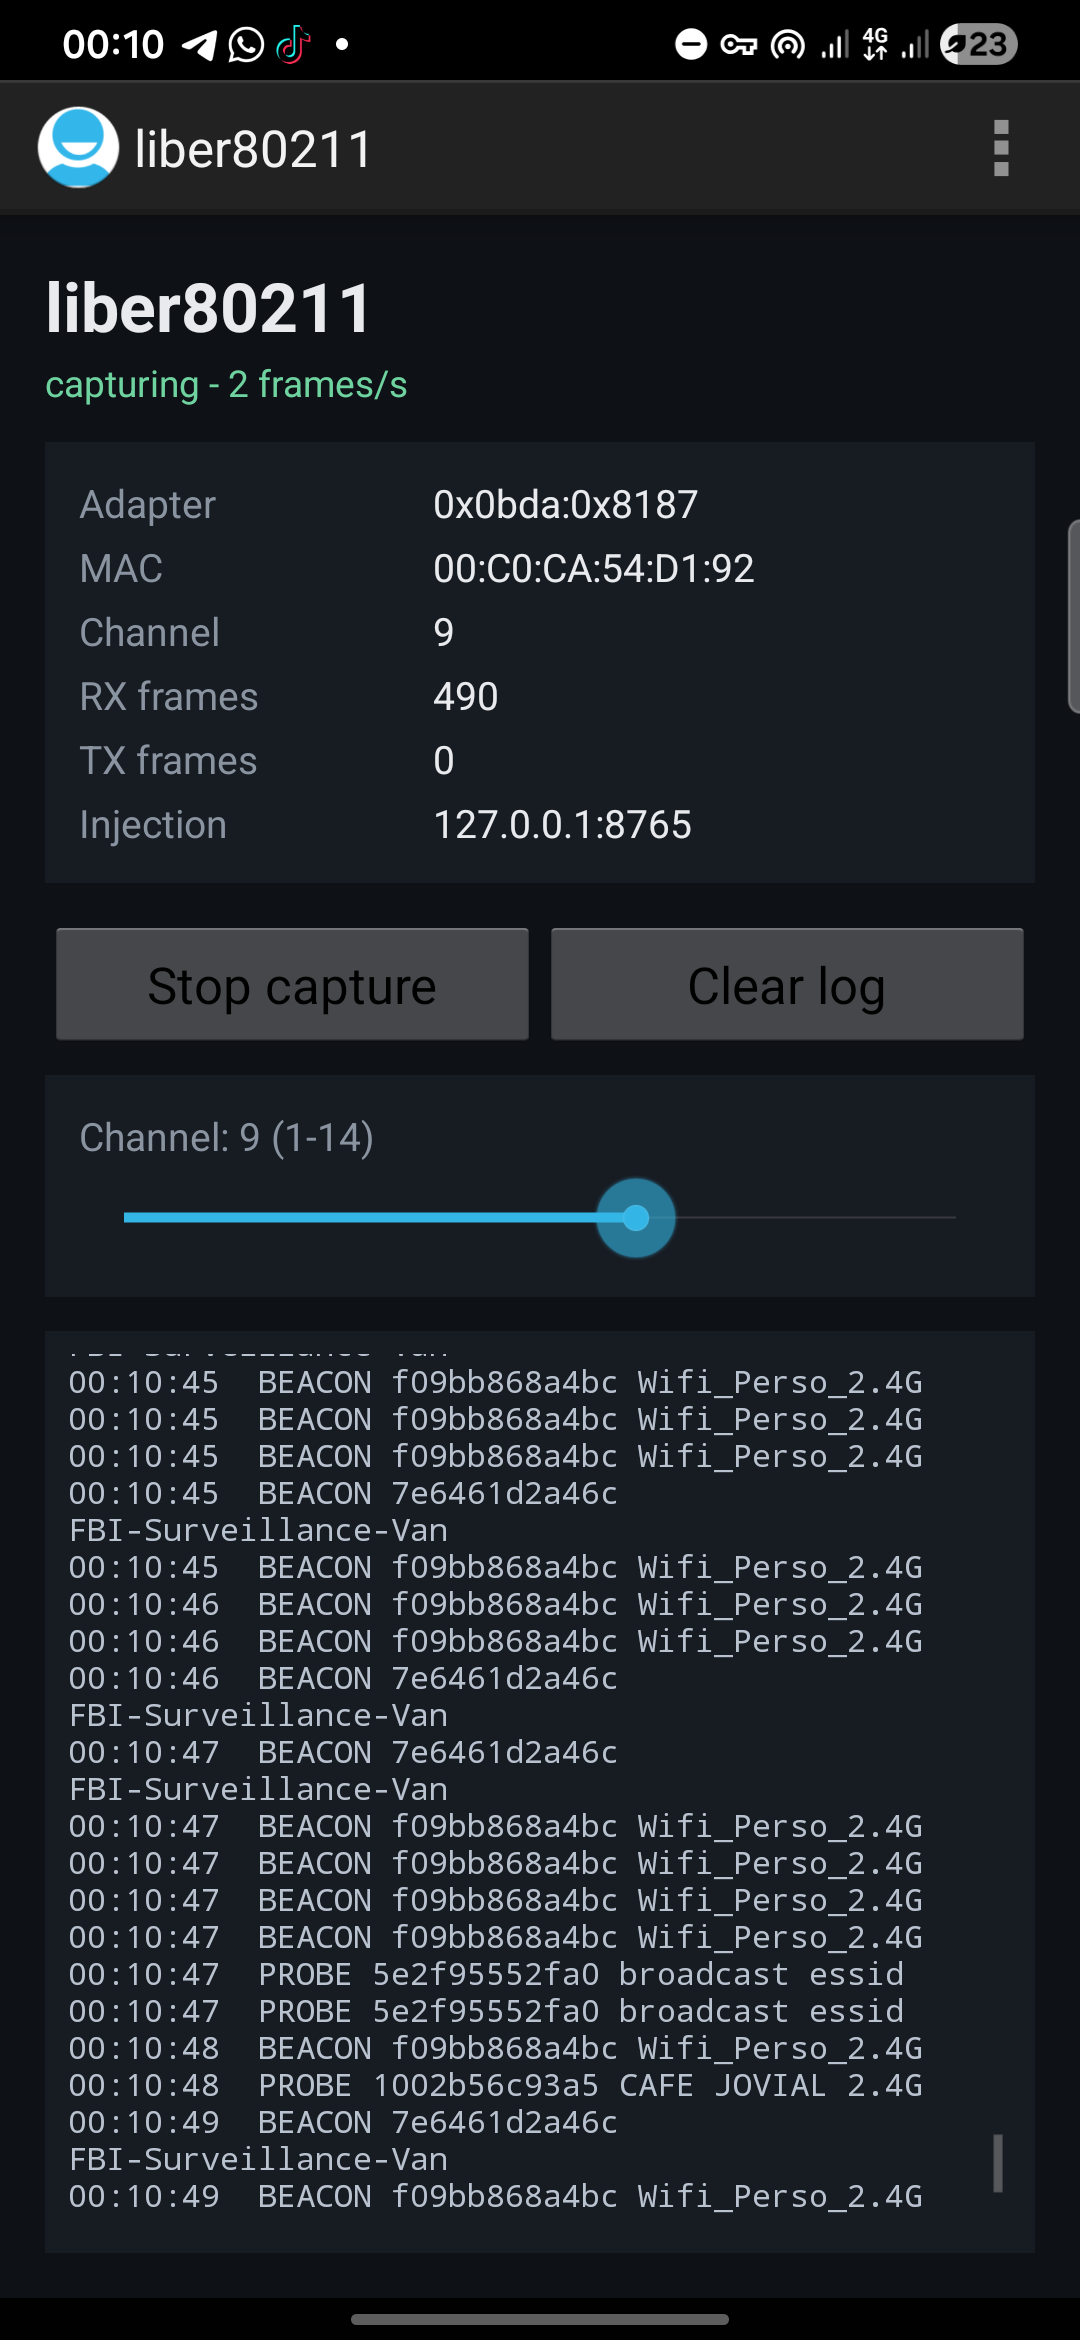
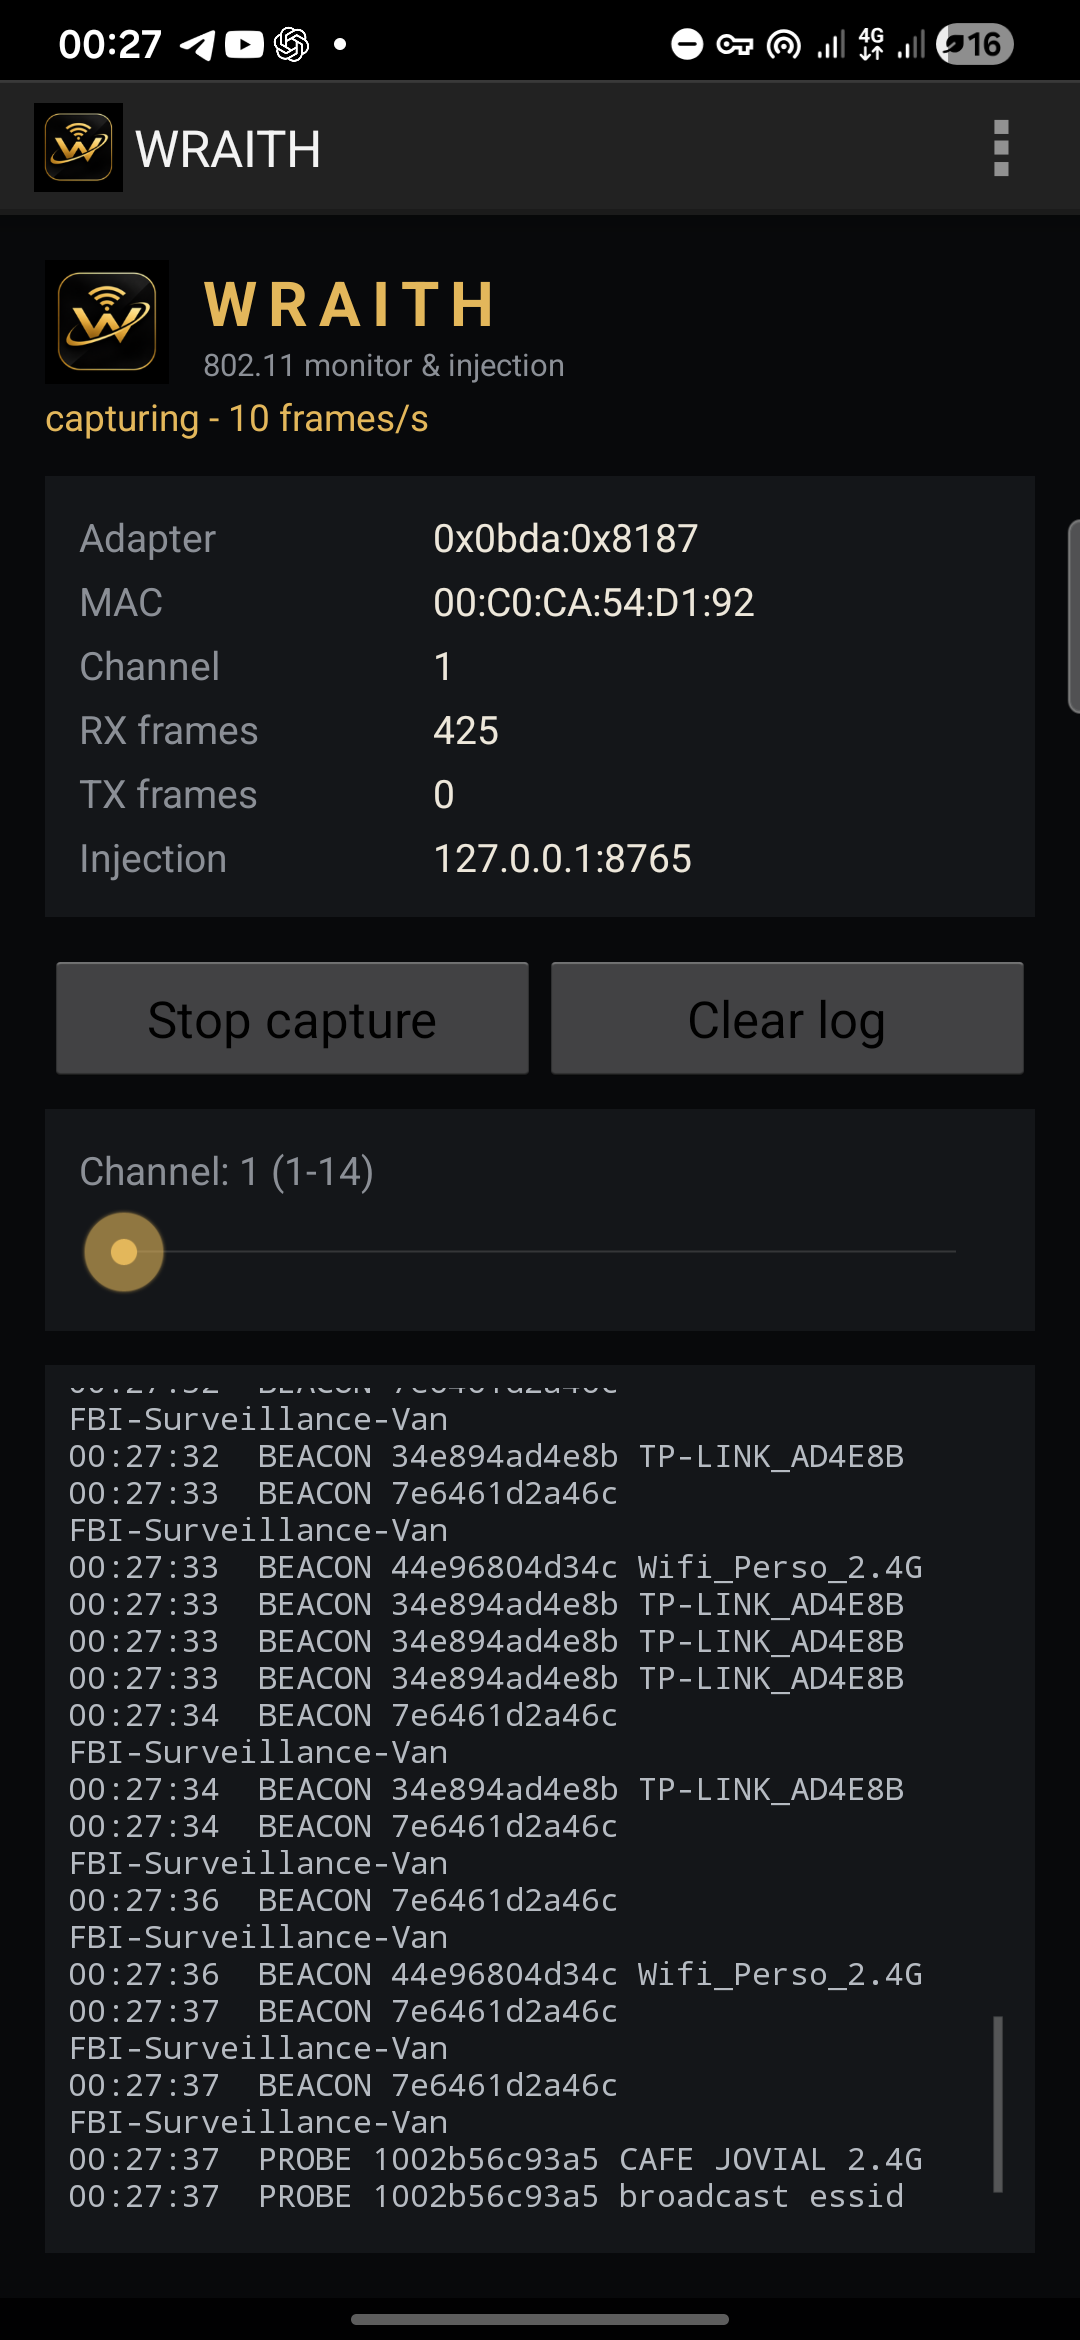
Rebrand the app as WRAITH
The project outgrew its working title and needed a name and an icon of its own.
The app now shows the gold W in the launcher, the title bar and the dashboard
header, on a black and gold palette instead of the old green-on-grey.

Renaming the display name alone would have left the shell tool calling itself
something else, so the Termux command is now `wraith`, installed by
install-wraith.sh; `liber` and `liber80211` stay symlinks to it so existing
notes keep working. Captures move to /sdcard/wraith, and the tool still reads
wraith_*.txt (and the older liber80211_*.txt) logs.

The package id stays com.brycestrosoft.liber80211: changing it would make the
update a separate app, losing the granted USB and storage permissions and the
capture directory on phones that already run it.

README credits GUURUUU as maintainer with hotshado as collaborator.

diff --git a/src/com/brycestrosoft/liber80211/MainActivity.java b/src/com/brycestrosoft/liber80211/MainActivity.java
@@ -125,7 +125,7 @@ public class MainActivity extends Activity {
         if (device == null) {
             set_state(R.string.state_no_adapter);
             append_message("No USB Wi-Fi adapter found.\n"
-                    + "Plug the adapter in through an OTG cable and relaunch liber80211.\n");
+                    + "Plug the adapter in through an OTG cable and relaunch WRAITH.\n");
             return;
         }
         _text_adapter.setText(describe_device(device));
@@ -236,7 +236,7 @@ public class MainActivity extends Activity {
                     append_message("Channel " + channel + " is not supported by this radio.\n");
                 }
             }
-        }, "liber80211-channel").start();
+        }, "wraith-channel").start();
     }
 
     private void start_capture() {
@@ -260,7 +260,7 @@ public class MainActivity extends Activity {
         RxThread rx = new RxThread(_conn, this, _ep_rx);
         rx.messages = _text_log;
         rx.fileMessages = _osw_log;
-        Thread thread = new Thread(rx, "liber80211-rx");
+        Thread thread = new Thread(rx, "wraith-rx");
         thread.start();
         return rx;
     }
@@ -268,7 +268,7 @@ public class MainActivity extends Activity {
     private void setup_capture_files() {
         _capture_dir = pick_capture_dir();
         try {
-            String log_name = "liber80211_" + System.currentTimeMillis() + ".txt";
+            String log_name = "wraith_" + System.currentTimeMillis() + ".txt";
             File log_path = new File(_capture_dir, log_name);
             _osw_log = new OutputStreamWriter(new FileOutputStream(log_path));
             append_message("Logging to " + log_path.getAbsolutePath() + "\n");
@@ -285,11 +285,11 @@ public class MainActivity extends Activity {
     }
 
     /*
-     * Prefers the public directory (/sdcard/liber80211) so Termux can read the
+     * Prefers the public directory (/sdcard/wraith) so Termux can read the
      * captures, falls back to the app directory and finally internal storage.
      */
     private File pick_capture_dir() {
-        File public_dir = new File(Environment.getExternalStorageDirectory(), "liber80211");
+        File public_dir = new File(Environment.getExternalStorageDirectory(), "wraith");
         try {
             if ((public_dir.isDirectory() || public_dir.mkdirs())) {
                 File probe = new File(public_dir, ".write_test");
@@ -354,7 +354,7 @@ public class MainActivity extends Activity {
 
                     if (_ep_tx != null) {
                         _inject = new InjectServer(conn, _ep_tx);
-                        new Thread(_inject, "liber80211-inject").start();
+                        new Thread(_inject, "wraith-inject").start();
                     } else {
                         append_message("No bulk OUT endpoint found, injection disabled.\n");
                     }
@@ -365,7 +365,7 @@ public class MainActivity extends Activity {
                     _driver_started = false;
                 }
             }
-        }, "liber80211-init").start();
+        }, "wraith-init").start();
     }
 
     private int rtl8187_probe(UsbDeviceConnection conn, UsbDevice device) {

diff --git a/tools/wraith-inject.py b/tools/wraith-inject.py
@@ -1,19 +1,19 @@
 #!/data/data/com.termux/files/usr/bin/python3
-"""Send 802.11 frames through liber80211 on Android.
+"""Send 802.11 frames through WRAITH on Android.
 
-The ALFA AWUS036H is driven in user space by the liber80211 app, so it never
+The ALFA AWUS036H is driven in user space by the WRAITH app, so it never
 appears as a network interface and tools like aireplay-ng cannot open it with
 libpcap.  The app instead listens on 127.0.0.1:8765 and this script speaks its
 protocol, so injection can be driven from a Termux prompt.
 
 Usage:
-  liber80211-inject.py channel 6
-  liber80211-inject.py status
-  liber80211-inject.py deauth AA:BB:CC:DD:EE:FF              # broadcast client
-  liber80211-inject.py deauth AA:BB:CC:DD:EE:FF 11:22:33:44:55:66
-  liber80211-inject.py beacon "Free WiFi"
-  liber80211-inject.py raw c0000000ffffffffffffaabbccddeeffaabbccddeeff0007
-  liber80211-inject.py replay capture.pcap --count 5
+  wraith-inject.py channel 6
+  wraith-inject.py status
+  wraith-inject.py deauth AA:BB:CC:DD:EE:FF              # broadcast client
+  wraith-inject.py deauth AA:BB:CC:DD:EE:FF 11:22:33:44:55:66
+  wraith-inject.py beacon "Free WiFi"
+  wraith-inject.py raw c0000000ffffffffffffaabbccddeeffaabbccddeeff0007
+  wraith-inject.py replay capture.pcap --count 5
 """
 
 import argparse

diff --git a/README.md b/README.md
@@ -1,22 +1,22 @@
-# liber80211
+# WRAITH
 
-802.11 monitor mode, frame capture and packet injection on an unrooted Android
-phone, using an external USB Wi-Fi card.
+**802.11 monitor mode, frame capture and packet injection on an unrooted Android
+phone, using an external USB Wi-Fi card.**
 
-liber80211 is a user space port of the Linux `rtl8187` driver for the
-[ALFA AWUS036H](https://www.amazon.com/gp/product/B000QYGNKQ/ref=as_li_qf_sp_asin_il_tl?ie=UTF8&camp=1789&creative=9325&creativeASIN=B000QYGNKQ&linkCode=as2&tag=liber80211-20)
-(RTL8187). Android never sees the card as a network interface, which is exactly
-why this works without root: the driver talks to the hardware over USB directly.
-The trade-off is that ordinary packet tools cannot open the card, so the app
-exposes its transmit path as a small local socket that the bundled
-[`liber`](tools/liber) command drives from Termux.
+WRAITH is a user space port of the Linux `rtl8187` driver for the
+[ALFA AWUS036H](https://www.amazon.com/gp/product/B000QYGNKQ/) (RTL8187).
+Android never sees the card as a network interface, which is exactly why this
+works without root: the driver talks to the hardware over USB directly. The
+trade-off is that ordinary packet tools cannot open the card, so the app exposes
+its transmit path as a small local socket that the bundled
+[`wraith`](tools/wraith) command drives from Termux.
 
 ## What works today
 
 | | |
 | --- | --- |
 | Monitor mode | without root, on any Android with USB host support |
-| Frame capture | libpcap in `/sdcard/liber80211/capture.pcap`, plus a text log |
+| Frame capture | libpcap in `/sdcard/wraith/capture.pcap`, plus a text log |
 | Live view | beacons and probe requests decoded and shown as they arrive |
 | Channel control | channels 1-14, from the app or from the shell |
 | Packet injection | raw frames, deauth, beacon and pcap replay at 1 Mbit/s |
@@ -38,11 +38,10 @@ supported.
 
 ## Install
 
-The app is built locally, or by the GitHub Actions workflow, into
-`liber80211.apk`:
+The app is built locally into `wraith.apk`:
 
 ```bash
-adb install -r liber80211.apk
+adb install -r wraith.apk
 ```
 
 Plug the card in through OTG and launch the app; it asks for USB and storage
@@ -52,9 +51,11 @@ permission, probes the card, then starts capturing. See
 Install the Termux command from a checkout:
 
 ```bash
-bash tools/install-liber.sh
-liber doctor
+bash tools/install-wraith.sh
+wraith doctor
 ```
+
+`liber` and `liber80211` are installed as aliases so older notes keep working.
 
 ## The app
 
@@ -64,31 +65,30 @@ A status panel (adapter, MAC, channel, RX/TX counters, injection socket), a
 capture start/stop button that leaves the radio initialised, a channel slider,
 and the live frame log.
 
-## The `liber` command
+## The `wraith` command
 
 ```text
-liber info                  what the app is doing right now
-liber channel 6             retune the radio
-liber deauth AA:BB:CC:DD:EE:FF [client]
-liber beacon "Free WiFi"
-liber raw c0000000ffffffffffff...
-liber replay capture.pcap --count 5
-liber capture ls            list captures
-liber capture pull          copy captures out of /sdcard
-liber capture info          summarise capture.pcap
-liber log -f                follow the newest log
-liber doctor                check the install and the app
+wraith info                 what the app is doing right now
+wraith channel 6            retune the radio
+wraith deauth AA:BB:CC:DD:EE:FF [client]
+wraith beacon "Free WiFi"
+wraith raw c0000000ffffffffffff...
+wraith replay capture.pcap --count 5
+wraith capture ls           list captures
+wraith capture pull         copy captures out of /sdcard
+wraith capture info         summarise capture.pcap
+wraith log -f               follow the newest log
+wraith doctor               check the install and the app
 ```
 
-`liber80211` is installed as an alias. Full details, including how to write
-your own client, are in [docs/USAGE.md](docs/USAGE.md) and
-[docs/PROTOCOL.md](docs/PROTOCOL.md).
+Full details, including how to write your own client, are in
+[docs/USAGE.md](docs/USAGE.md) and [docs/PROTOCOL.md](docs/PROTOCOL.md).
 
 ## Limitations, stated plainly
 
 - **`aireplay-ng` and `aircrack-ng` do not work with this app.** They open a
   monitor-mode interface through libpcap, and a user space driver deliberately
-  provides none. Use `liber` for deauth, beacon, raw and replay work.
+  provides none. Use `wraith` for deauth, beacon, raw and replay work.
 - **The card cannot be used as an internet adapter.** No kernel driver means no
   network interface, so Android cannot route through it. Keep the phone's own
   Wi-Fi or mobile data for connectivity; the two radios do not interfere.
@@ -99,6 +99,8 @@ your own client, are in [docs/USAGE.md](docs/USAGE.md) and
   of scope for now.
 - **No radiotap headers** in the pcap: link type 105, raw 802.11.
 - **One card at a time**, RTL8187 only.
+- **Captures from before the rename** are still in `/sdcard/liber80211`; the app
+  now writes to `/sdcard/wraith`.
 
 ## Repository layout
 
@@ -109,11 +111,16 @@ src/                     the app (Java, no third-party dependencies)
   InjectServer.java      loopback socket that carries injected frames
   PcapWriter.java        libpcap writer
   Stats.java             shared counters for the UI and the socket
-res/                     layout, colours, strings
-tools/liber              the Termux command
-tools/liber80211-inject.py   its Python client (protocol implementation)
+res/                     layout, colours, strings, icons
+tools/wraith             the Termux command
+tools/wraith-inject.py   its Python client (protocol implementation)
 docs/                    usage, protocol, building, screenshots
 ```
+
+## Credits
+
+- **GUURUUU** — creator and maintainer — https://github.com/GUURUUU
+- **hotshado** — collaborator (upstream testing ground) — https://github.com/hotshado
 
 ## License
 

diff --git a/docs/USAGE.md b/docs/USAGE.md
@@ -1,9 +1,9 @@
-# Using liber80211
+# Using WRAITH
 
 ## First run
 
 1. Plug the ALFA into the phone through the OTG cable.
-2. Launch liber80211. It asks for USB access to the card (allow it), and
+2. Launch WRAITH. It asks for USB access to the card (allow it), and
    optionally for location and storage.
 3. The status panel turns to `capturing` within a few seconds. The probe is
    slow by design: it bit-bangs the card's EEPROM over thousands of USB control
@@ -19,7 +19,7 @@ powered Y-cable fixes most of these cases.
 | --- | --- |
 | Adapter | USB vendor:product of the card (`0x0bda:0x8187` for an AWUS036H) |
 | MAC | the card's own hardware address, read from its EEPROM |
-| Channel | current radio channel, `unknown` until the first tune |
+| Channel | current radio channel; the app tunes to 1 when it starts |
 | RX frames | frames captured since launch |
 | TX frames | frames injected since launch |
 | Injection | the loopback socket the shell tools talk to |
@@ -35,13 +35,13 @@ changes what you receive: the log fills with that channel's beacons.
 ## Where the data goes
 
 ```
-/sdcard/liber80211/
+/sdcard/wraith/
   capture.pcap            libpcap, link type 105 (raw 802.11, no radiotap)
-  liber80211_<ms>.txt     one line per event, epoch-millisecond prefixed
+  wraith_<ms>.txt     one line per event, epoch-millisecond prefixed
 ```
 
 The text log holds decoded beacons and probe requests, GPS fixes (when
-permitted), and every injected frame. If `/sdcard/liber80211` is not writable
+permitted), and every injected frame. If `/sdcard/wraith` is not writable
 the app falls back to its own external directory; the exact path is printed in
 the log on startup.
 
@@ -51,28 +51,28 @@ Install once from a checkout:
 
 ```bash
 pkg install python ncurses-utils
-bash tools/install-liber.sh
-liber doctor
+bash tools/install-wraith.sh
+wraith doctor
 ```
 
-`liber doctor` reports the capture directory, python, and whether the app's
+`wraith doctor` reports the capture directory, python, and whether the app's
 socket answers.
 
 ### Reading captures
 
 ```bash
-liber capture ls
-liber capture info          # frame count, time window, BSSIDs, frame types
-liber capture pull          # copies pcap + recent logs to ~/liber80211-captures
-liber log                   # newest log, last 25 lines
-liber log -f                # follow it
+wraith capture ls
+wraith capture info          # frame count, time window, BSSIDs, frame types
+wraith capture pull          # copies pcap + recent logs to ~/WRAITH-captures
+wraith log                   # newest log, last 25 lines
+wraith log -f                # follow it
 ```
 
 `capture info` needs no extra tools. For deeper analysis install `tshark`:
 
 ```bash
 pkg install tshark
-tshark -r /sdcard/liber80211/capture.pcap
+tshark -r /sdcard/wraith/capture.pcap
 ```
 
 ### Injecting
@@ -81,13 +81,13 @@ The app must be running with the card attached. All commands accept the usual
 `--count` and `--delay` options.
 
 ```bash
-liber info                                  # state, channel, counters
-liber channel 6                             # retune first
-liber deauth AA:BB:CC:DD:EE:FF              # deauth every client of an AP
-liber deauth AA:BB:CC:DD:EE:FF 11:22:33:44:55:66 --count 10
-liber beacon "Free WiFi" --channel 6 --count 50
-liber raw c0000000ffffffffffffaabbccddeeffaabbccddeeff0007
-liber replay capture.pcap --count 3
+wraith info                                  # state, channel, counters
+wraith channel 6                             # retune first
+wraith deauth AA:BB:CC:DD:EE:FF              # deauth every client of an AP
+wraith deauth AA:BB:CC:DD:EE:FF 11:22:33:44:55:66 --count 10
+wraith beacon "Free WiFi" --channel 6 --count 50
+wraith raw c0000000ffffffffffffaabbccddeeffaabbccddeeff0007
+wraith replay capture.pcap --count 3
 ```
 
 `replay` understands captures written by this app (link type 105) and the usual
@@ -102,7 +102,7 @@ ignored by the target.
 
 Anything that can open a TCP socket to `127.0.0.1:8765` can inject. The
 protocol is four to six bytes of overhead per frame and is documented in
-[PROTOCOL.md](PROTOCOL.md). `tools/liber80211-inject.py` is a short, readable
+[PROTOCOL.md](PROTOCOL.md). `tools/wraith-inject.py` is a short, readable
 implementation.
 
 ## Background use

diff --git a/docs/BUILDING.md b/docs/BUILDING.md
@@ -1,4 +1,4 @@
-# Building liber80211
+# Building WRAITH
 
 The project has no Gradle build and no third-party dependencies: it is compiled
 with the Android SDK build tools directly. That keeps the build reproducible on
@@ -42,7 +42,7 @@ jar uf build/app.apk -C build classes.dex
 "$BT/zipalign" -f -p 4 build/app.apk build/aligned.apk
 "$BT/apksigner" sign --ks build/debug.keystore --ks-key-alias androiddebugkey \
     --ks-pass pass:android --key-pass pass:android \
-    --out liber80211.apk build/aligned.apk
+    --out wraith.apk build/aligned.apk
 ```
 
 On Windows with Git Bash, call the `.bat` wrappers (`d8.bat`, `apksigner.bat`)
@@ -59,7 +59,7 @@ keytool -genkeypair -v -keystore build/debug.keystore -storetype PKCS12 \
 ## Install and run
 
 ```bash
-adb install -r liber80211.apk
+adb install -r wraith.apk
 adb shell am start -n com.brycestrosoft.liber80211/.MainActivity
 ```
 
@@ -73,8 +73,8 @@ adb shell pm grant com.brycestrosoft.liber80211 android.permission.WRITE_EXTERNA
 ## Checking it works
 
 ```bash
-adb shell "ls -l /sdcard/liber80211"
-adb pull /sdcard/liber80211/capture.pcap
+adb shell "ls -l /sdcard/wraith"
+adb pull /sdcard/wraith/capture.pcap
 tshark -r capture.pcap -Y "wlan.fc.type_subtype == 8"
 ```
 
@@ -87,7 +87,7 @@ adb shell "printf '\005' | nc 127.0.0.1 8765"     # INFO
 ## Continuous integration
 
 `.github/workflows/build-apk.yml` runs the same steps on a runner and uploads
-`liber80211.apk` as a build artifact. It needs `platforms/android-35` and
+`wraith.apk` as a build artifact. It needs `platforms/android-35` and
 build-tools 35.0.0 to match the local build; if it drifts, the local recipe
 above is the reference.
 

diff --git a/docs/PROTOCOL.md b/docs/PROTOCOL.md
@@ -43,7 +43,7 @@ Rules the app enforces and the caller should respect:
 ## Reading the status
 
 `INFO` returns the same text the app shows on screen, so a written tool behaves
-like `liber info`:
+like `wraith info`:
 
 ```
 state: capturing
